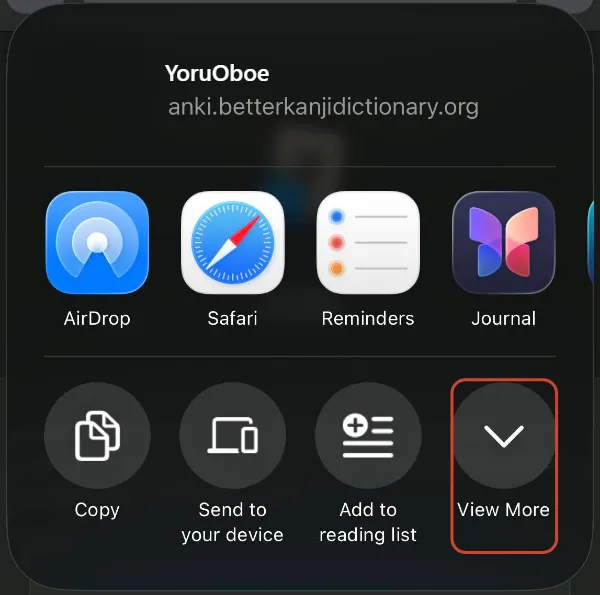
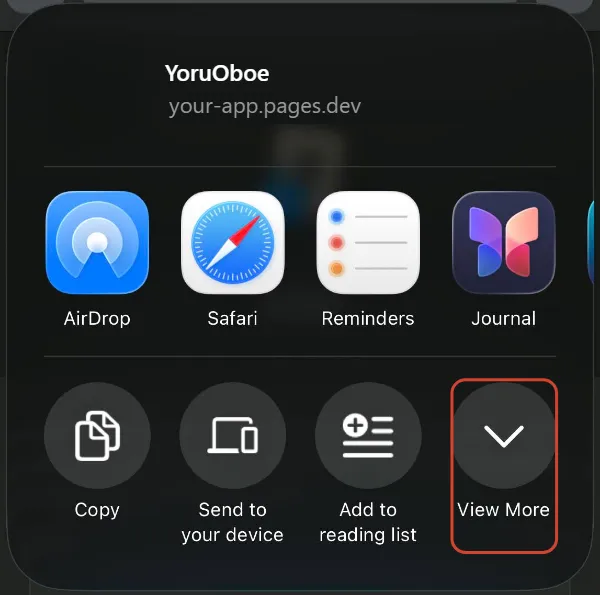
Install guides with pictures: Cloudflare's dashboard, and the iPhone's newest Safari
- README: the Cloudflare upload step by step with the dashboard's screenshots
  (docs/install/cloudflare), through "Continue to Pages", the legacy Pages workflow
  that still has drag and drop.
- Installing on iPhone (iOS): Safari's steps from BetterRTK's newest pictures (step 1
  is the ☰ button in the address bar), the in-app guide too. Every picture, Chrome's
  included, shows YoruOboe's name and icon and a placeholder address,
  your-app.pages.dev, since each copy has its own.

Changed region(s): [[0.27, 0.1513, 0.81, 0.2118]]

diff --git a/web/src/install/InstallGuide.tsx b/web/src/install/InstallGuide.tsx
@@ -24,8 +24,8 @@ const T = {
   title: 'YoruOboe is designed to work from your Home Screen',
   why: 'In the browser, you might see some bugs or glitches, and the browser may clear your collection to save space.',
   own: 'The app on the Home Screen keeps its own collection, apart from this browser’s: log in or import there.',
-  s1: 'Tap ••• at the bottom right.',
-  s1b: 'No ••• button? Tap Share, then go to step 3.',
+  s1: 'Tap ☰ in the address bar, on the left.',
+  s1b: 'No ☰ button? Tap ••• at the bottom right. No ••• button? Tap Share, then go to step 3.',
   s2: 'Tap Share.',
   s3: 'Tap View More.',
   s4: 'Tap Add to Home Screen.',
@@ -74,11 +74,11 @@ function browser(): Browser {
 
 const STEPS: Record<Exclude<Browser, 'brave' | 'inApp'>, Step[]> = {
   safari: [
-    { text: 's1', note: 's1b', img: step1, h: 234 },
-    { text: 's2', img: step2, h: 748 },
-    { text: 's3', img: step3, h: 573 },
-    { text: 's4', img: step4, h: 403 },
-    { text: 's5', img: step5, h: 488 },
+    { text: 's1', note: 's1b', img: step1, h: 209 },
+    { text: 's2', img: step2, h: 554 },
+    { text: 's3', img: step3, h: 603 },
+    { text: 's4', img: step4, h: 426 },
+    { text: 's5', img: step5, h: 476 },
   ],
   // After Share, Chrome's steps are Safari's: the same system screens.
   chrome: [

diff --git a/README.md b/README.md
@@ -5,7 +5,7 @@ syncs with AnkiWeb (or your own sync server), like AnkiDroid and AnkiMobile. The
 no app server: the host only serves the app's files and passes sync requests on.
 
 To set up your own: [Deploying](#deploying) (Cloudflare Pages: free, upload a zip), then
-[Installing on the iPhone](#installing-on-the-iphone).
+[Installing on iPhone](#installing-on-iphone-ios).
 
 YoruOboe is not made by or connected with Ankitects (Anki) or the AnkiDroid project.
 
@@ -132,39 +132,60 @@ account, no command line. You need a Cloudflare account (sign up at
 **As is: what you see is what you get.** A release is a finished version. Once
 uploaded, your copy stays exactly as it is: it doesn't update itself, nothing is
 promised about future versions, and there is no support. If a newer release comes out
-and you want it, you upload that one the same way (step 5).
+and you want it, you upload that one the same way (below, after step 7).
 
 #### 1. Download the app
 
 From [Releases](https://github.com/CreeperBeatz/yoruoboe/releases/latest), download
 `yoruoboe-<version>.zip` (under **Assets**). Don't unzip it.
 
-#### 2. Create the project
+#### 2. Open Workers & Pages
 
-In the [Cloudflare dashboard](https://dash.cloudflare.com), go to **Workers & Pages**,
-select **Create application**, then **Get started** next to **Drag and drop your
-files**.
+Sign in to the [Cloudflare dashboard](https://dash.cloudflare.com). Type `pages` in the
+search box and choose **Workers & Pages** (or pick it in the menu on the left). Then
+select **Create application**.
 
-<!-- screenshot: docs/install/cloudflare/01-create.png, Workers & Pages > Create application, "Drag and drop your files" > Get started ringed -->
+<img src="docs/install/cloudflare/01-workers-pages.webp" width="640" alt="The dashboard's search, Workers & Pages ringed">
 
-#### 3. Upload
+#### 3. Take the Pages way
 
-Type a project name, for example `yoruoboe`: it becomes the address,
-`https://yoruoboe.pages.dev` (if the name is taken, Cloudflare adds a few letters).
-Select **Create project**, drop the zip from step 1 onto the upload box, and select
-**Deploy site**.
+Cloudflare offers to make a Worker. Don't pick any of those: at the bottom, under *Need
+to use the legacy Pages workflow?*, select **Continue to Pages**.
 
-<!-- screenshot: docs/install/cloudflare/02-upload.png, the project name filled in and the zip dropped, Deploy site ringed -->
+<img src="docs/install/cloudflare/02-continue-to-pages.webp" width="480" alt="Create an app, with Continue to Pages ringed at the bottom">
 
-#### 4. Open it
+#### 4. Choose drag and drop
 
-When the upload finishes, Cloudflare shows the address. Open it on the iPhone and add it
-to the Home Screen ([Installing on the iPhone](#installing-on-the-iphone)). The first
-minute or two after a new project, the address may not answer yet.
+Next to **Drag and drop your files**, select **Get started**.
 
-<!-- screenshot: docs/install/cloudflare/03-deployed.png, the finished deployment with its pages.dev address -->
+<img src="docs/install/cloudflare/03-drag-and-drop.webp" width="520" alt="Get started with Pages, Drag and drop your files ringed">
 
-#### 5. Your own domain, or a newer release (optional)
+#### 5. Name the project
+
+Type a project name, for example `yoruoboe`. It becomes the address,
+`https://<name>.pages.dev`; a green check means the name is free. Select **Create
+project**.
+
+<img src="docs/install/cloudflare/04-project-name.webp" width="720" alt="Project name yoruoboe, Create project ringed">
+
+#### 6. Upload the zip
+
+Drop the zip from step 1 onto the upload box that appears, and wait for *All files
+were successfully uploaded*. The yellow note *Specifying a _routes.json is an
+experimental feature* is expected: that file is what sends sync to the right place.
+Select **Deploy site**.
+
+<img src="docs/install/cloudflare/05-deploy-site.webp" width="720" alt="260 files uploaded, the _routes.json note, Deploy site ringed">
+
+#### 7. Open it
+
+Cloudflare says **Success!** with the address. Open that address on the iPhone and add
+it to the Home Screen ([Installing on iPhone](#installing-on-iphone-ios)). For the first
+minute or two a new address may not answer yet.
+
+<img src="docs/install/cloudflare/06-success.webp" width="600" alt="Success! Your project is deployed, with its pages.dev address">
+
+#### Your own domain, or a newer release (optional)
 
 - **Your own domain:** in **Workers & Pages**, select the project > **Custom domains** >
   **Set up a domain**, type the hostname (for example `yoruoboe.example.org`), and
@@ -173,8 +194,6 @@ minute or two after a new project, the address may not answer yet.
   address: at a new domain the phone starts empty (and syncs down again).
 - **A newer release:** select the project > **Create a new deployment** > **Production**,
   and drop the new zip. Phones pick it up the next time the app is opened twice.
-
-<!-- screenshot: docs/install/cloudflare/04-custom-domain.png, Custom domains > Set up a domain -->
 
 #### If something doesn't work
 
@@ -248,28 +267,33 @@ the service; after that `publish.sh` alone deploys.
 Behind a Cloudflare Tunnel, keep **Rocket Loader** and **Bot Fight Mode** off for the
 app's hostname, and expect the same 100 MB request limit as on Pages (above).
 
-## Installing on the iPhone
+## Installing on iPhone (iOS)
 
-The app is meant to run from the Home Screen: there it opens full screen, keeps its
-data, and works offline. Opened in a browser on an iPhone or iPad, the app shows these
-steps itself, for the browser in use (the first time, then from the note on the deck
-list and from Settings). It needs iOS 16.4 or later.
+YoruOboe is a web app: there is no App Store download. You add it to the Home Screen
+from the browser, and from there it opens full screen like any app, keeps its data, and
+works offline. It needs iOS 16.4 or later (iPad too).
+
+You need your copy's address: `https://<name>.pages.dev` from
+[Deploying](#on-cloudflare-pages-no-machine), or your own domain. The screenshots show
+`your-app.pages.dev` in its place. Opened in a browser on the phone, the app also shows
+these steps itself (the first time, then from the note on the deck list and from
+Settings).
 
 ### Safari
 
-1. Open your app's address (`https://yoruoboe.pages.dev`, or your own domain) and tap
-   **•••** at the bottom right.
-   (No ••• button? Tap **Share** and go to step 3.)
+1. Open your app's address in Safari, and tap **☰** in the address bar, on the left.
+   (No ☰ button? Tap **•••** at the bottom right. No ••• button either? Tap **Share**
+   and go to step 3.)
 
-   <img src="web/src/install/step1.webp" width="420" alt="Safari's address bar, with the ••• button">
+   <img src="web/src/install/step1.webp" width="420" alt="Safari's address bar, with the ☰ button ringed">
 
 2. Tap **Share**.
 
-   <img src="web/src/install/step2.webp" width="320" alt="Safari's menu, Share at the top">
+   <img src="web/src/install/step2.webp" width="320" alt="Safari's menu, Share ringed">
 
 3. Tap **View More**.
 
-   <img src="web/src/install/step3.webp" width="360" alt="The share sheet, View More">
+   <img src="web/src/install/step3.webp" width="360" alt="The share sheet for YoruOboe, View More ringed">
 
 4. Tap **Add to Home Screen**.
 
@@ -277,11 +301,11 @@ list and from Settings). It needs iOS 16.4 or later.
 
 5. Keep **Open as Web App** on, and tap **Add**.
 
-   <img src="web/src/install/step5.webp" width="360" alt="Add to Home Screen, Open as Web App on">
+   <img src="web/src/install/step5.webp" width="360" alt="Add to Home Screen for YoruOboe, Open as Web App on, Add ringed">
 
 ### Chrome
 
-1. Open your app's address and tap **Share**, in the address bar.
+1. Open your app's address in Chrome and tap **Share**, in the address bar.
 
    <img src="web/src/install/chrome1.webp" width="420" alt="Chrome's address bar, with the Share button">
 
@@ -311,13 +335,12 @@ screens. Brave, and apps that open links inside themselves (Instagram, Messenger
 cannot add to the Home Screen: open the address in Safari. The app says so when it is
 in one of them.
 
-Screenshots: Safari's are BetterRTK's install guide's, with its name and icon replaced
-by this app's; Chrome's were taken with this app (`docs/install/source`). Both are cut
-and ringed by `node scripts/make_install_shots.mjs`, which also writes the app's name
-over the one they were taken with.
-
 A Home Screen icon keeps the picture it had when it was added: after the icon changes,
 delete it and add it again (the collection stays).
+
+Screenshots: Safari's are BetterRTK's install guide's, Chrome's were taken with this app
+(`docs/install/source`); `node scripts/make_install_shots.mjs` cuts and rings them and
+puts this app's name, icon and a placeholder address in.
 
 ## Keep Anki versions together
 
@@ -366,7 +389,7 @@ journals kept in memory on the IndexedDB store.
 | `web/public/` | the card frame, and the script put into Anki's pages |
 | `deploy/` | `serve.py`, the Pi's service and scripts; Cloudflare's sync forwarder (`cloudflare/_worker.js`) |
 | `scripts/` | Anki's pages from the aqt wheel; the icons and the install guide's screenshots (`make_*.mjs`) |
-| `docs/` | the AnkiDroid parity checklist, how Anki's pages talk to their host, the Chrome install screenshots as taken |
+| `docs/` | the AnkiDroid parity checklist, how Anki's pages talk to their host, the Chrome install screenshots as taken, the Cloudflare guide's screenshots |
 | `legacy/` | the first, server-based version, for reference |
 | `vendor/`, `reference/` | downloaded: Anki's pages; AnkiDroid's and Anki's source, for reference |
 
